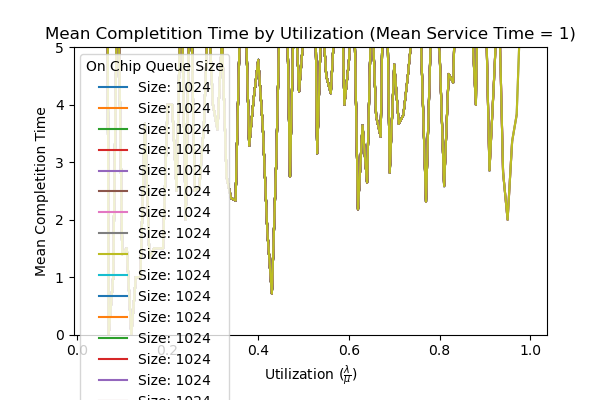
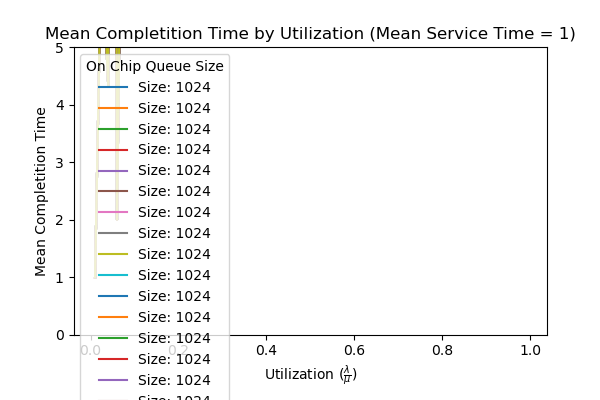
Simulator: Average time in slot metric

diff --git a/model/Simulator.py b/model/Simulator.py
@@ -23,6 +23,9 @@ class Message:
         self.startTime = startTime
         self.endTime   = 0
 
+    def __repr__(self):
+        return f'{self.id} : {self.priority}'
+
 # class BisectedPriorityQueue():
 #     def __init__(self, config):
 #         # Fast on chip single-cycle priority queue
@@ -99,7 +102,11 @@ class PriorityQueue:
         self.time   = 0
 
     def enqueue(self, entry):
-        self.queue.append(entry)
+        insert = next((e[0] for e in enumerate(self.queue) if e[1].priority > entry.priority), len(self.queue))
+        self.queue.insert(insert, entry)
+
+
+        # self.queue.append(entry)
         assert len(self.queue) <= self.size+1, \
             "Queue Overflow" 
         
@@ -108,7 +115,8 @@ class PriorityQueue:
         if (len(self.queue) == 0): return None
 
         # Find the highest priority element
-        ideal = min(self.queue, key=lambda entry: entry.priority)
+        # ideal = min(self.queue, key=lambda entry: entry.priority)
+        ideal = self.queue[0]
 
         # Reduce the priority as we send one packet
         ideal.priority = ideal.priority - 1
@@ -122,42 +130,10 @@ class PriorityQueue:
     def trace(self):
         return self.record
     
-    # def promote(self):
-    #     if len(self.queue) == 0:
-    #         return None
-
-    #     # Find the highest priority element
-    #     best = min(self.queue, key=lambda entry: entry.priority)
-
-    #     self.queue.remove(best)
-
-    #     return best 
-
-    # def demote(self):
-    #     if len(self.queue) == self.size+1:
-    #         worst = max(self.queue, key=lambda entry: entry.priority)
-    #         self.queue.remove(worst)
-    #         return worst 
-
-    #     return None
-
-    # def done(self):
-    #     return len(self.queue) == 0
-
     def tick(self):
-        self.record.append(copy.deepcopy(self.queue))
+        # print(self.queue[0:16])
+        self.record.append(copy.copy(self.queue))
         self.time += 1
-
-    # def remains(self):
-    #     return len(self.queue)
-
-    # def stats(self):
-    #     record = np.array(self.record)
-    #     print(f'PriorityQueue: {self.token} (Size: {self.size}):')
-    #     print(f'   - Average Occupancy: {record.mean()}')
-    #     print(f'   - Median Occupancy:  {np.median(record)}')
-    #     print(f'   - Max Occupancy:     {record.max()}')
-    #     print("Remaining Length: " + str(len(self.queue)))
 
 class Host:
     def __init__(self, config):
@@ -170,8 +146,6 @@ class Host:
         self.events    = [next(gen) for gen in self.generator]
 
         self.queue = PriorityQueue(self.size)
-
-        # self.queue = BisectedPriorityQueue(config)
 
     def tick(self):
         # Do we need to generate a new message from the poisson process?
@@ -211,27 +185,36 @@ class Host:
         print("computing flux")
         runs = [[] for i in range(self.size)]
 
+        # TODO this misses the very last trace
+
         # Iterate through slots
         for slot in range(self.size):
             run = 0
             last = None
+
             # Iterate through entries
             for record in records:
-                # This is the start of a run
-                if len(record) > slot and last == record[slot]:
-                    run += 1
-                    print("incr")
-                else:
-                    runs[slot].append(run)
-                    run = 0
-
+                current = None
                 if len(record) > slot:
-                    last = record[slot]
-                else:
-                    last = None
+                    current = record[slot]
 
-        # print(records)
-        # print(runs)
+                if current != None:
+                    if current == last: # is it a continuation
+                        run += 1
+                    else: # is it a new run
+                        if run != 0:
+                            runs[slot].append(run)
+                        run = 1
+                else:
+                    if run != 0:
+                        runs[slot].append(run)
+                        run = 0
+
+                last = current
+
+        for run in reversed(runs[0:32]):
+            if run != []:
+                print(statistics.mean(run))
 
     def stats(self):
         records = self.queue.record
@@ -291,7 +274,7 @@ class Sim:
 
 if __name__ == '__main__':
     config = {
-        'completions': 100,
+        'completions': 500000,
         # 'completions': 500000,
         'rates': [],
         'commDelay' : 140,
@@ -305,22 +288,52 @@ if __name__ == '__main__':
     fig, axs = plt.subplots(1, figsize=(6,4))
     fig.tight_layout(pad=3.0)
 
-    # Mean service time 
-    # mst = 1
-
-    mst = 4
-
-    mu = 1/mst
-
-    # depths = list(range(1,6))
-    # depths.append(18)
-    # for onChipDepth in depths:
     onChipDepth = 10 
-    # onChipDepth = 18
     config['onChipDepth'] = 2**onChipDepth
 
     xs = []
     mcts = []
+
+    # for rate in range(1,100):
+    # rate = .99
+    rho = .99
+    for mst in [1, 2, 4, 8, 16, 32, 64, 128, 256]:
+        mu = 1/mst
+
+        # desired utilization (vary rho from .1 -> .9)
+        # rho = rate/100
+
+        # Compute corresponding service rate
+        lamda = rho * mu
+
+        config['rates'] = [{'arrival' : lamda, 'service': mu, 'token': 'RPC', 'dict': 'Poisson'}]
+        print(config)
+
+        sim = Sim(config)
+        result, rem = sim.simulate()
+
+        # need to not count simulations which are unstable
+        print(rem)
+        xs.append(rho)
+        mcts.append(result.mean())
+        print(sim.stats())
+
+        axs.plot(xs, mcts, label=f'Size: {2**onChipDepth}')
+
+        axs.set_title(r'Mean Completition Time by Utilization (Mean Service Time = {mst})')
+        axs.legend(loc='upper left', title='On Chip Queue Size')
+        axs.set_ylabel('Mean Completition Time')
+        axs.set_xlabel(r'Utilization $(\frac{\lambda}{\mu})$')
+        axs.set_ylim(0,5)
+
+        plt.savefig(f'mm1_bisected_{mst}.png')
+        plt.plot(xs, mcts, label=f'Perfect')
+
+
+    ''' Vary Utilization
+    mst = 1
+
+    mu = 1/mst
 
     # Iterate through utilization .1->.9
     for rate in range(1,100):
@@ -352,6 +365,10 @@ if __name__ == '__main__':
 
     plt.savefig(f'mm1_bisected.png')
     plt.plot(xs, mcts, label=f'Perfect')
+    '''
+
+
+
 
 '''
 if __name__ == '__main__':
@@ -427,8 +444,6 @@ if __name__ == '__main__':
     plt.plot(xs, mcts, label=f'Perfect')
 
 '''
-
-# TODO Enforce some rw locking slow PQ to be more CPU realistic
 
 # Vary across 5 workloads
 
